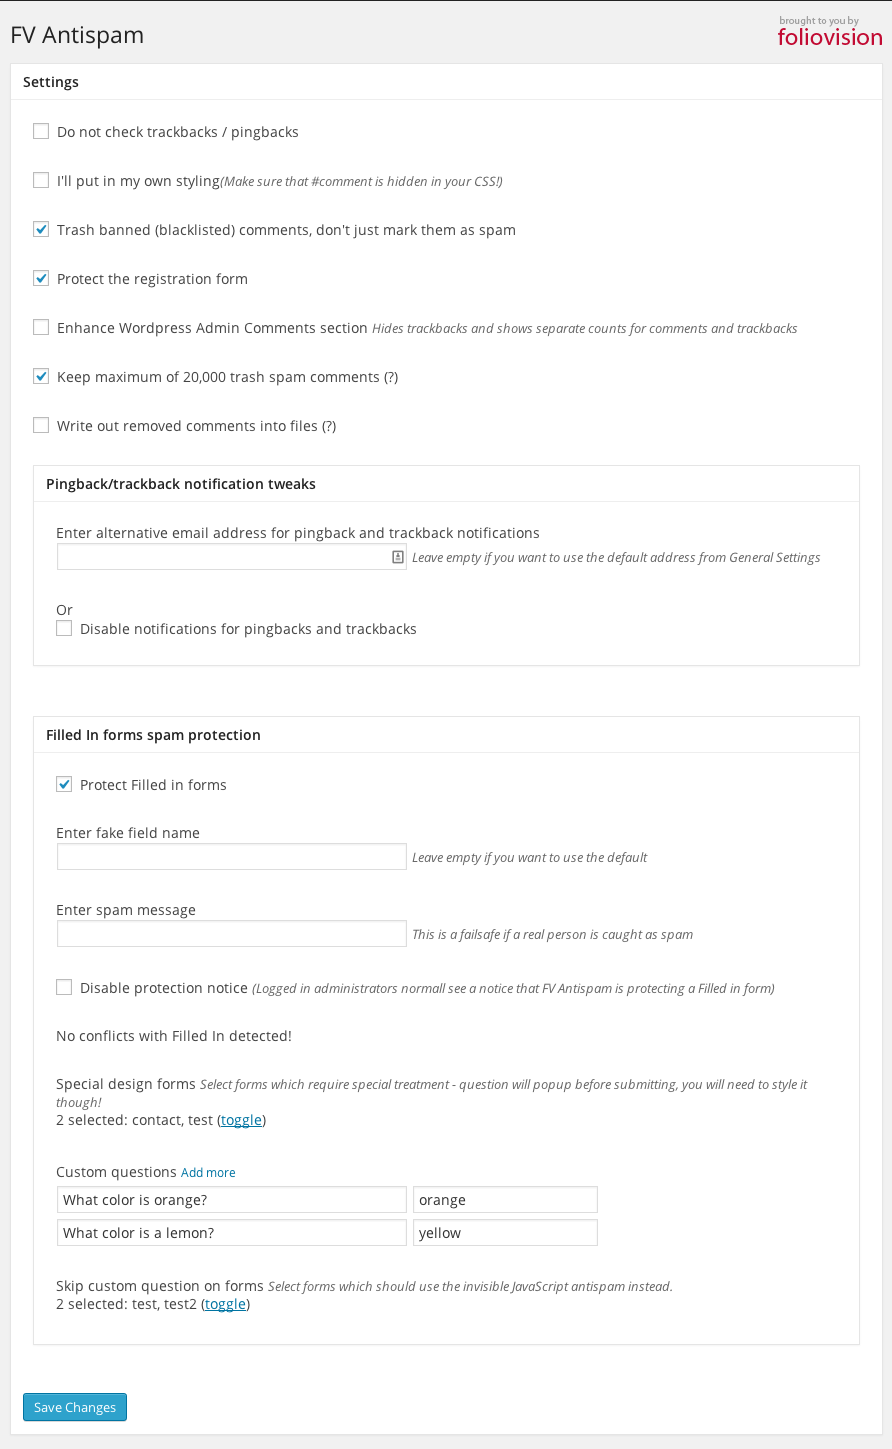
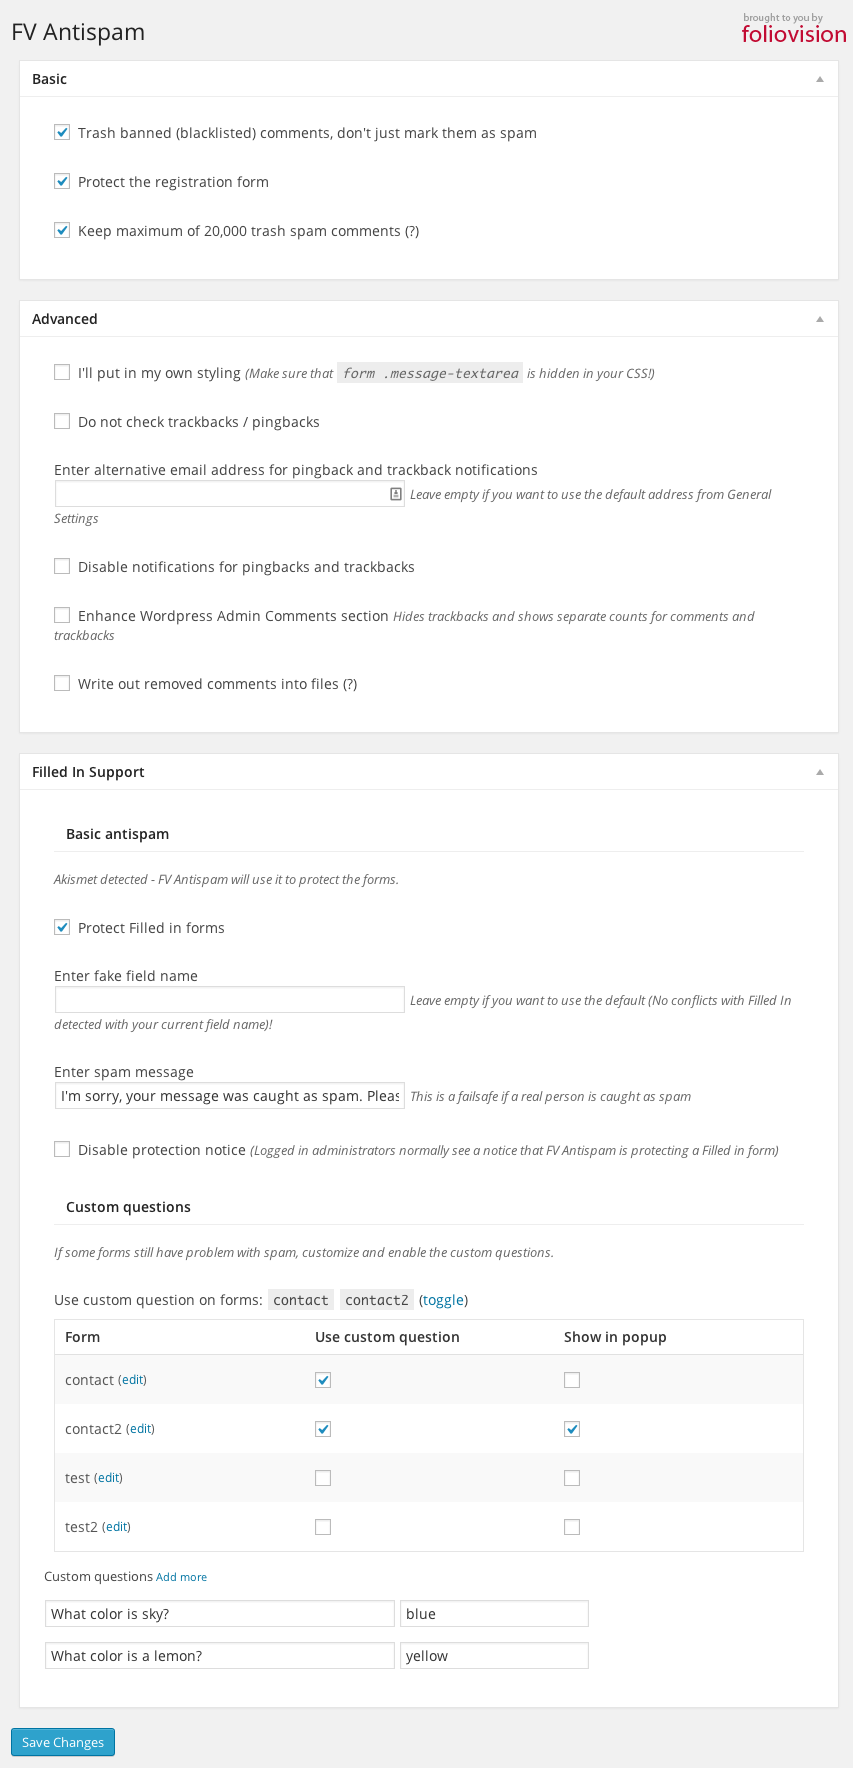
Version 2.2.1 - fix for s2Member.
git-svn-id: https://plugins.svn.wordpress.org/fv-antispam/trunk@885636 b8457f37-d9ea-0310-8a92-e5e31aec5664

diff --git a/fv-antispam.php b/fv-antispam.php
@@ -4,12 +4,12 @@ Plugin Name: FV Antispam
 Plugin URI: http://foliovision.com/seo-tools/wordpress/plugins/fv-antispam
 Description: Powerful and simple antispam plugin. Puts all the spambot comments directly into trash and let's other plugins (Akismet) deal with the rest.
 Author: Foliovision
-Version: 2.2
+Version: 2.2.1
 Author URI: http://www.foliovision.com
 */
 
 
-$fv_antispam_ver = '2.2';
+$fv_antispam_ver = '2.2.1';
 $FV_Antispam_iFilledInCount = 0;
 $FV_Antispam_bMathJS = false;
 
@@ -112,9 +112,9 @@ class FV_Antispam extends FV_Antispam_Plugin {
       add_action( 'init', array( $this, 'func__precheck_comment_request' ), 0 );
       add_action( 'preprocess_comment', array( $this, 'func__verify_comment_request' ), 1 );
       
-      //add_action( 'preprocess_comment', array( $this, 'func__check_math' ), 1 );
+      //add_action( 'preprocess_comment', array( $this, 'func__check_math' ), 1 );        
       
-      if ($GLOBALS['pagenow'] == 'wp-login.php' && $this->func__get_plugin_option('spam_registrations')) {
+      if( $GLOBALS['pagenow'] == 'wp-login.php' && $this->func__get_plugin_option('spam_registrations') && !$this->func__check_s2member() ) {
 				add_action( 'login_head', array( $this, 'disp__login_form_js' ) );
 				add_action( 'login_enqueue_scripts', array( $this, 'func__login_scripts') );
         add_action( 'login_form', array( $this, 'disp__login_form_notice' ) );
@@ -695,8 +695,8 @@ class FV_Antispam extends FV_Antispam_Plugin {
           <tr>
             <td>
               <label for="spam_registrations">
-              <input type="checkbox" name="spam_registrations" id="spam_registrations" value="1" <?php checked($this->func__get_plugin_option('spam_registrations'), 1) ?> />
-              <?php _e('Protect the registration form', 'antispam_bee') ?>
+              <input <?php if( $this->func__check_s2member() ) : ?>onclick="return false"<?php endif; ?> type="checkbox" name="spam_registrations" id="spam_registrations" value="1" <?php checked($this->func__get_plugin_option('spam_registrations'), 1) ?> />
+              <?php _e('Protect the registration form', 'antispam_bee') ?> <?php if( $this->func__check_s2member() ) : ?>(<abbr title="Not available for s2Member!">?</abbr>)<?php endif; ?>
               </label>
             </td>
           </tr>        
@@ -1277,6 +1277,20 @@ function fvacq( form_name, form_id ) {
 		return $aComment;
 	}
 	
+  
+  
+  
+  function func__check_s2member() {
+    $bs2member = false;
+    $aPlugins = get_option('active_plugins');
+    foreach( $aPlugins AS $sPlugin ) {
+      if( stripos($sPlugin,'s2member.php') !== false ) {
+        $bs2member = true;
+      }
+    }
+    return $bs2member;
+  }
+  
 	
 	
 	
